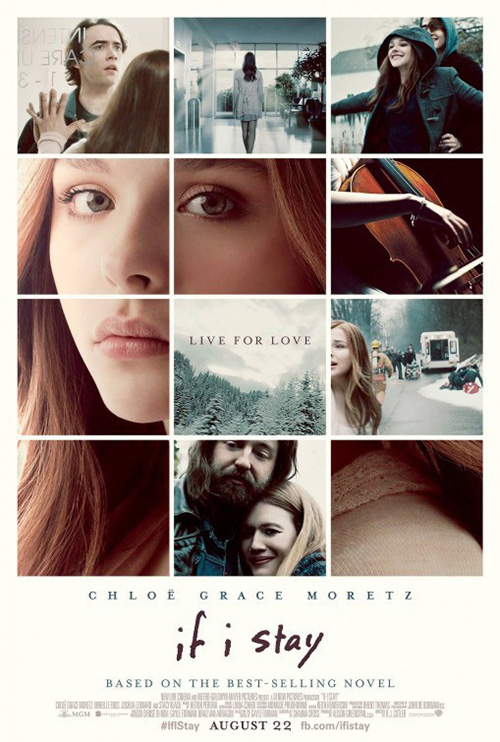
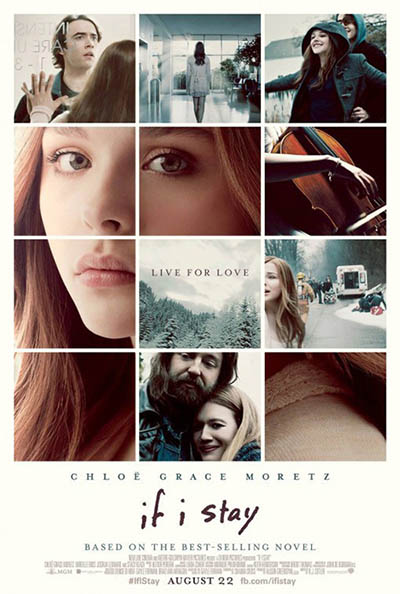
compressed posters and added time check to post movies

diff --git a/index.html b/index.html
@@ -1,6 +1,7 @@
 ---
 layout: default
 ---
+{% capture today %}{{'now' | date: '%F'}}{% endcapture %}
 
 <div id="index-banner" class="parallax-container">
   <div class="section no-pad-bot">
@@ -20,14 +21,18 @@ layout: default
 
 <div class="container">
 {% assign movies = site.data.dubbings | where: "type","35mm" | sort: 'date' | reverse %}
+{% assign counter = 4 %}
   <div class="section">
     <div class="row">
       <h3>Doblajes recientes</h3>
-      {% for movie in movies limit:4 %}
+      {% for movie in movies %}
+      {% if movie.date <= today and counter !=0 %}
       <div class="col s12 m6 l3">
         {% include movie_card.html %}
       </div>
-    {% endfor %}
+      {% assign counter = counter | minus: '1' %}
+      {% endif %}
+      {% endfor %}
     </div>
     <div class="row center">
       <a href="{{ site.url }}/doblaje" id="download-button" class="btn-large waves-effect waves-light teal lighten-1">Ver más</a>
@@ -85,14 +90,18 @@ layout: default
 </div>
 
 {% assign movies = site.data.dubbings | where:"type","Serie" | sort: 'date' | reverse %}
+{% assign counter = 4 %}
 <div class="container">
   <div class="section">
     <div class="row">
       <h3>Series recientes</h3>
-      {% for movie in movies limit:4 %}
+      {% for movie in movies %}
+      {% if movie.date <= today and counter !=0 %}
       <div class="col s12 m6 l3">
         {% include movie_card.html %}
       </div>
+    {% assign counter = counter | minus: '1' %}
+    {% endif %}
     {% endfor %}
     </div>
     <div class="row center">

diff --git a/movies.html b/movies.html
@@ -36,10 +36,12 @@ permalink: /doblaje/
 
 
 {% assign movies = site.data.dubbings | sort: 'date' | reverse %}
+{% capture today %}{{'now' | date: '%F'}}{% endcapture %}
 <div class="container">
   <div class="section">
     <div class="row">
       {% for movie in movies %}
+      {% if movie.date <= today %} 
       <div class="col s12 m6 l3">
         <!-- Promo Content 1 goes here -->
         <div class="dubbings">
@@ -48,6 +50,7 @@ permalink: /doblaje/
           </div>
         </div>
       </div>
+      {% endif %}
       {% endfor %}
     </div>
  </div>
